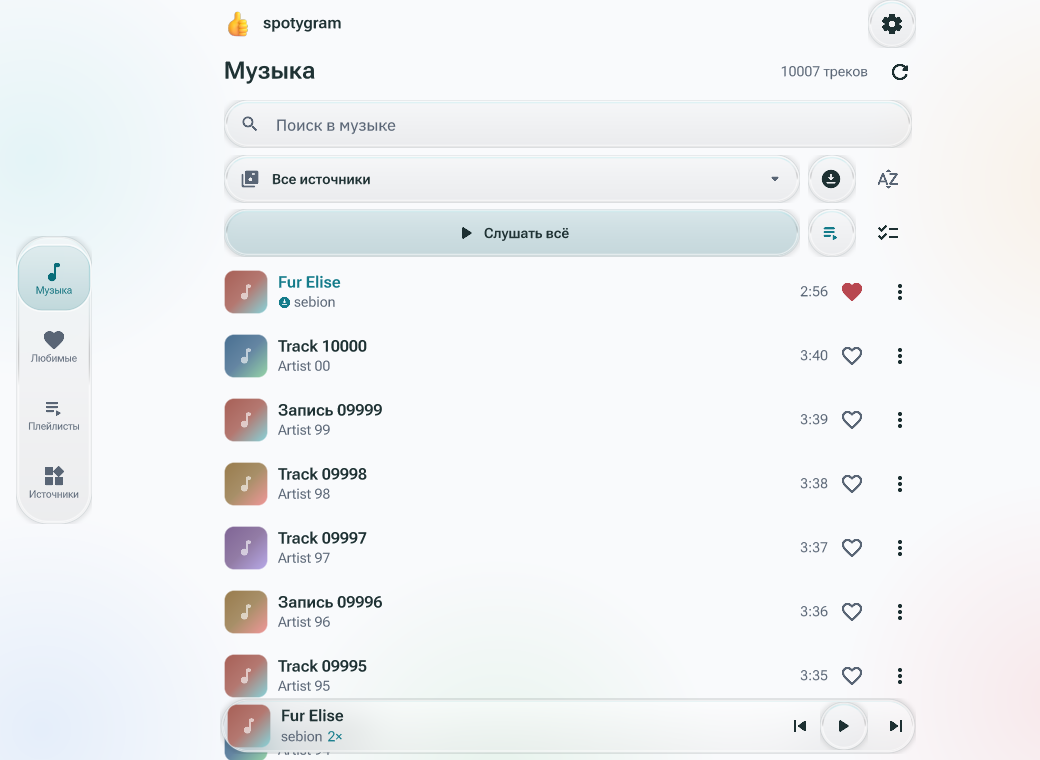
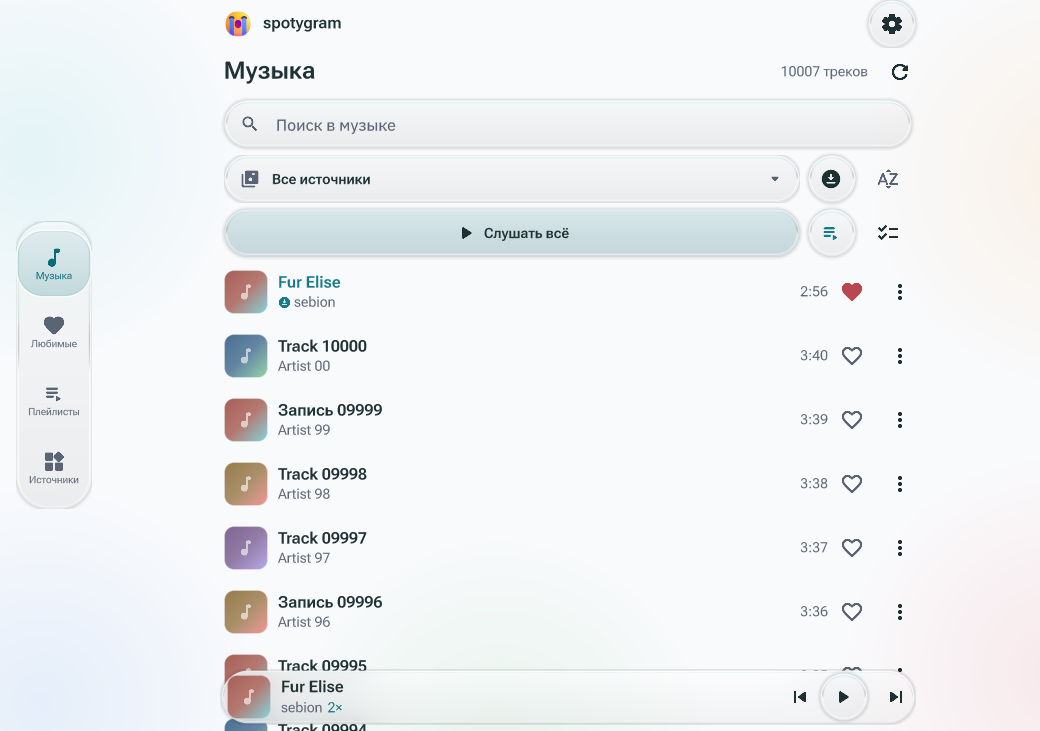
fix: remove square shadows from Rust glass surfaces

diff --git a/src/design.rs b/src/design.rs
@@ -90,6 +90,14 @@ script_mod! {
                 if t<2.0 {return mix(cyan,shade,t-1.0);}
                 return mix(shade,bottom,t-2.0);
             }
+            outer_shadow:fn(shape:float,coverage:float)->float{
+                // The quad has 4 pt of padding. A Gaussian alone still has
+                // visible alpha there and exposes its rectangular boundary.
+                // End the halo smoothly within that support on every surface.
+                let distance=max(shape,0.0);
+                let fade=1.0-smoothstep(1.0,4.0,distance);
+                return exp(-distance*distance/12.0)*fade*(1.0-coverage);
+            }
             pixel:fn(){
                 let sdf=Sdf2d.viewport(self.pos*self.rect_size3);
                 let p=self.sdf_rect_pos;
@@ -128,7 +136,7 @@ script_mod! {
                 sdf.box(p.x+2.6,p.y+2.6,size.x-5.2,size.y-5.2,max(radius-1.3,0.5));
                 let rim=self.optical_rim(y);
                 sdf.stroke(vec4(rim.rgb,rim.a*edge_alpha),mix(0.8,0.5,self.dark));
-                let shade=exp(-max(shape,0.0)*max(shape,0.0)/12.0)*(1.0-sdf.result.a)*0.08;
+                let shade=self.outer_shadow(shape,sdf.result.a)*0.08;
                 return (sdf.result+vec4(0.0,0.0,0.0,shade))*self.layer_opacity;
             }
         }
@@ -138,7 +146,7 @@ script_mod! {
     // Stationary controls refract the same analytic light field as Prism.
     // They need no scene capture or blur pyramid while the catalog scrolls.
     mod.spotygram.Surface = View {
-        width:Fill height:Fit show_bg:true
+        width:Fill height:Fit show_bg:true clip_x:false clip_y:false
         draw_bg +:{
             color:theme.color_bg_app
             base_color:uniform(theme.color_bg_app)
@@ -152,6 +160,7 @@ script_mod! {
             loading:uniform(0.0) anim_time:uniform(0.0) loading_color:uniform(theme.color_text)
             environment_color:mod.spotygram.CapturedSurface.draw_bg.environment_color
             optical_rim:mod.spotygram.CapturedSurface.draw_bg.optical_rim
+            outer_shadow:mod.spotygram.CapturedSurface.draw_bg.outer_shadow
             vertex:fn(){
                 let position=self.clip_and_transform_vertex(self.rect_pos-vec2(4.0),self.rect_size+vec2(8.0));
                 self.pos=(self.pos*(self.rect_size+vec2(8.0))-vec2(4.0))/self.rect_size;
@@ -200,12 +209,13 @@ script_mod! {
                     sdf.arc_round_caps(c.x,c.y,min(size.x,size.y)*0.23,a,a+4.712389,2.0);
                     sdf.fill(vec4(self.loading_color.rgb,self.loading));
                 }
-                let shade=exp(-max(shape,0.0)*max(shape,0.0)/12.0)*(1.0-sdf.result.a)*0.07*seal;
+                let shade=self.outer_shadow(shape,sdf.result.a)*0.07*seal;
                 return sdf.result+vec4(0.0,0.0,0.0,shade);
             }
         }
     }
     mod.spotygram.Glass = ButtonFlat {
+        clip_x:false clip_y:false
         height:48 margin:0 padding:Inset{left:16 right:16 top:0 bottom:0} spacing:7
         text:"" align:Center label_walk:Walk{width:Fit height:Fit}
         draw_bg:mod.spotygram.Surface.draw_bg{}

diff --git a/src/ui.rs b/src/ui.rs
@@ -433,7 +433,7 @@ script_mod! {
                     panel_error := mod.spotygram.Body{visible:false height:Fit max_lines:3 draw_text.color:mix(#xb84750,#xffa2a2,theme.spotygram_dark)}
                     panel_scroll := mod.spotygram.TouchScroll{width:Fill height:Fit flow:Down spacing:12
                         auth_mark := View{visible:false width:Fill height:132 flow:Down spacing:12 align:Center
-                            auth_photo := Image{width:64 height:64 fit:ImageFit.Smallest src:crate_resource("self:resources/spotygram_mark.png")}
+                            auth_photo := Image{width:64 height:64 fit:ImageFit.Smallest draw_bg +:{border_size:1.0 border_color:#x00000000} src:crate_resource("self:resources/spotygram_mark.png")}
                             auth_name := Label{text:"spotygram" draw_text.color:theme.color_text draw_text.text_style:theme.font_bold{font_size:21}}
                         }
                         auth_heading := mod.spotygram.Body{visible:false height:Fit max_lines:2 draw_text.text_style:theme.font_bold{font_size:16.5} text:"Connect Telegram"}

diff --git a/docs/verification.ru.md b/docs/verification.ru.md
@@ -6,6 +6,42 @@
 каркасы, аккаунты и аудио не входят в приложение. Предварительные релизы отделены
 от канала стабильной версии.
 
+## Края стекла в 0.2.2
+
+Квадратные серые следы со скриншотов владельца воспроизведены на круглой кнопке
+закрытия плеера и капсуле скорости в готовой 0.2.1. Общая внешняя тень сохраняла
+заметную альфу на прямоугольной границе отрисовки. Неподвижные поверхности
+и кнопки также обрезали собственную отрисовку по границам размещения.
+
+Оба шейдера стекла теперь плавно гасят тень по контуру внутри своей геометрии.
+Неподвижные поверхности и стеклянные кнопки позволяют рисовать в существующем
+внешнем запасе; ограничения прокрутки родительских контейнеров сохраняются.
+Скруглённые поверхности, оптические обводки, размеры и общий захват с размытием
+сохранены. Прозрачная картинка входа также маскирует пустой край, как уже делают
+стикеры шапки, чтобы не оставлять полосы от выборки текстуры.
+
+Linux release проверен на Radeon 680M через нативный Wayland/Vulkan
+и Xwayland/OpenGL. Увеличенные фрагменты до и после охватывают указанную круглую
+кнопку и капсулу скорости. Также проверены светлая/тёмная темы, наведение
+и нажатие, библиотека на 10 007 записей, группы источников, редактор плейлиста,
+настройки, выбор языка, панели скорости и очереди, узкий плеер и панели
+при 390×812. Тень следует скруглённому контуру без прежних прямоугольных следов
+в углах. `cargo fmt --all -- --check` и `cargo check --locked -j2` проходят;
+Cargo по-прежнему сообщает о повторяющихся пакетах в закреплённом Makepad.
+
+Подписанный x86-64 APK установлен поверх 0.2.1 на эмулятор Android 16 / API 36
+с OpenGL на Radeon. Версия 0.2.2-rust / 1004 сохранила библиотеку на 10 007
+записей, избранное, русский язык, тёмную тему, скорость 2× и паузу на 2:19.
+По реальным кадрам проверены обе темы, библиотека, группы источников, редактор
+плейлиста, плеер, настройки, панели скорости и очереди. Свайп настроек с включённого
+переключателя запоминания позиции прокрутил панель без изменения настройки;
+после возврата наверх переключатель остался включён. Ошибок скриптов/шейдеров
+Makepad и падений приложения не обнаружено. Оба ABI прошли lint приложения,
+проверку подписи и выравнивания ZIP на 16 КиБ; сертификат совпадает с 0.2.1.
+
+Это проверки отрисовки и взаимодействий. Ограничения проверки аккаунта
+и физических устройств, перечисленные ниже, сохраняются.
+
 ## Восстановление синхронизации в 0.2.1
 
 Владелец сообщил об ошибке `Sync will retry: 400: Supergroup not found`. В 0.2.0

diff --git a/docs/verification.md b/docs/verification.md
@@ -6,6 +6,42 @@ Verification uses manual interaction, runtime logs and screenshots. No automated
 test scaffolding, account fixtures or media are shipped with the application.
 Preview releases are independent of the stable release channel.
 
+## 0.2.2 glass edges
+
+The owner's square gray marks reproduce around the circular player Close button
+and the speed capsule in the packaged 0.2.1 interface. The shared outer shadow
+retained visible alpha at its rectangular draw boundary, and stationary surfaces
+and buttons also clipped their own drawing to their layout bounds.
+
+Both glass shaders now end the contour shadow smoothly within their geometry.
+Stationary surfaces and glass buttons allow their existing outer padding to draw;
+ancestor scrolling clips remain active. Rounded faces, optical rims, dimensions
+and the shared capture/blur path remain in place. The transparent sign-in image
+also masks its empty edge, as the header stickers already do, to avoid sampler
+streaks.
+
+The Linux release was inspected on Radeon 680M through native Wayland/Vulkan
+and Xwayland/OpenGL. Before/after enlarged crops cover the reported circular
+button and speed capsule. Checks also cover light/dark appearance, hover and
+press, the 10,007-row library, grouped source panels, playlist editor, settings,
+language, speed and queue panels, and the 390×812 responsive player and sheets.
+The shadow follows the rounded contour without the former rectangular corner
+marks. `cargo fmt --all -- --check` and `cargo check --locked -j2` pass; Cargo
+still reports the pinned Makepad workspace's duplicate-package notices.
+
+The signed x86-64 APK updated 0.2.1 in place on the Android 16 / API-36 emulator
+with Radeon-backed OpenGL. Version 0.2.2-rust / 1004 retained the 10,007-row
+library, favorite, Russian/dark appearance, 2× speed and paused position 2:19.
+Actual frames cover both themes, library, grouped sources, playlist editor,
+player, settings, speed and queue sheets. A settings swipe starting over the
+enabled resume toggle scrolled without changing it; returning to the top kept
+its state. No Makepad script/shader error or application crash appeared.
+Both ABIs pass application lint, signature verification and 16-KiB ZIP alignment;
+the signing certificate matches 0.2.1.
+
+These are rendering and interaction checks. The account and physical-device
+coverage limits below still apply.
+
 ## 0.2.1 synchronization recovery
 
 The owner reported `Sync will retry: 400: Supergroup not found`. The 0.2.0

diff --git a/docs/architecture.ru.md b/docs/architecture.ru.md
@@ -24,6 +24,14 @@ Rust-версия — отдельное нативное приложение. 
 вкладки останавливается после движения; смена стикера не запускает облачную
 синхронизацию.
 
+Оба шейдера стекла используют общую внешнюю тень по контуру с плавным затуханием
+внутри запаса геометрии. Стеклянные кнопки и неподвижные поверхности позволяют
+этому запасу рисоваться за собственными границами; ограничения прокрутки
+родительских контейнеров сохраняются. Тень должна успевать стать прозрачной
+до края области отрисовки: обрезанная гауссова тень с заметной альфой оставляет
+квадратные края вокруг круглых кнопок и скруглённых панелей. Дополнительные
+захваты, текстуры или проходы рендеринга для этого не нужны.
+
 Динамические SVG сохраняют разобранный документ и геометрию GPU до смены значка.
 Ограниченный кеш восстанавливает нужный значок после применения стиля, в том числе
 у скрытых кнопок. Отрисовка неизменённой строки не должна запрашивать новый кадр

diff --git a/docs/architecture.md b/docs/architecture.md
@@ -23,6 +23,13 @@ closed panels do not leave separate button overlays. Sliders accept absolute
 taps, drags and keyboard input without opening a numeric keyboard. Tab animation
 stops when it settles; changing a header sticker does not wake cloud sync.
 
+Both glass shaders share a contour-based outer shadow with a smooth cutoff
+inside the quad's padding. Glass controls and stationary surfaces allow that
+padding to draw outside their own layout bounds; ancestor scrolling clips still
+apply. Keep the halo within the geometry: truncating a Gaussian with visible
+alpha exposes square edges around circular buttons and rounded panels. This
+does not require another capture, texture or render pass.
+
 Dynamic SVGs retain their parsed document and GPU mesh until the glyph changes.
 A bounded cache restores the desired glyph after style reloads, including hidden
 controls. Drawing an unchanged row must not request another frame for its icon.

diff --git a/README.ru.md b/README.ru.md
@@ -14,7 +14,7 @@ Kotlin-версия остаётся в [`main`](https://github.com/Krablante/sp
 Тестовые выпуски используют теги `rust-v…` и помечаются как prerelease. Они не
 становятся последним стабильным релизом GitHub. Java runtime в desktop-пакетах нет.
 
-[Скачать тестовую Rust-версию](https://github.com/Krablante/spotygram/releases/tag/rust-v0.2.1)
+[Скачать тестовую Rust-версию](https://github.com/Krablante/spotygram/releases/tag/rust-v0.2.2)
 · [Как пользоваться](docs/usage.ru.md) · [Собрать из исходников](docs/build.ru.md)
 · [Проверки и ограничения](docs/verification.ru.md)
 

diff --git a/README.md b/README.md
@@ -13,7 +13,7 @@ app remains on [`main`](https://github.com/Krablante/spotygram/tree/main).
 Rust previews use `rust-v…` prerelease tags and never become GitHub's latest stable
 release. Desktop packages contain no Java runtime.
 
-[Download the Rust preview](https://github.com/Krablante/spotygram/releases/tag/rust-v0.2.1)
+[Download the Rust preview](https://github.com/Krablante/spotygram/releases/tag/rust-v0.2.2)
 · [User guide](docs/usage.md) · [Build from source](docs/build.md)
 · [Verification and limits](docs/verification.md)
 
